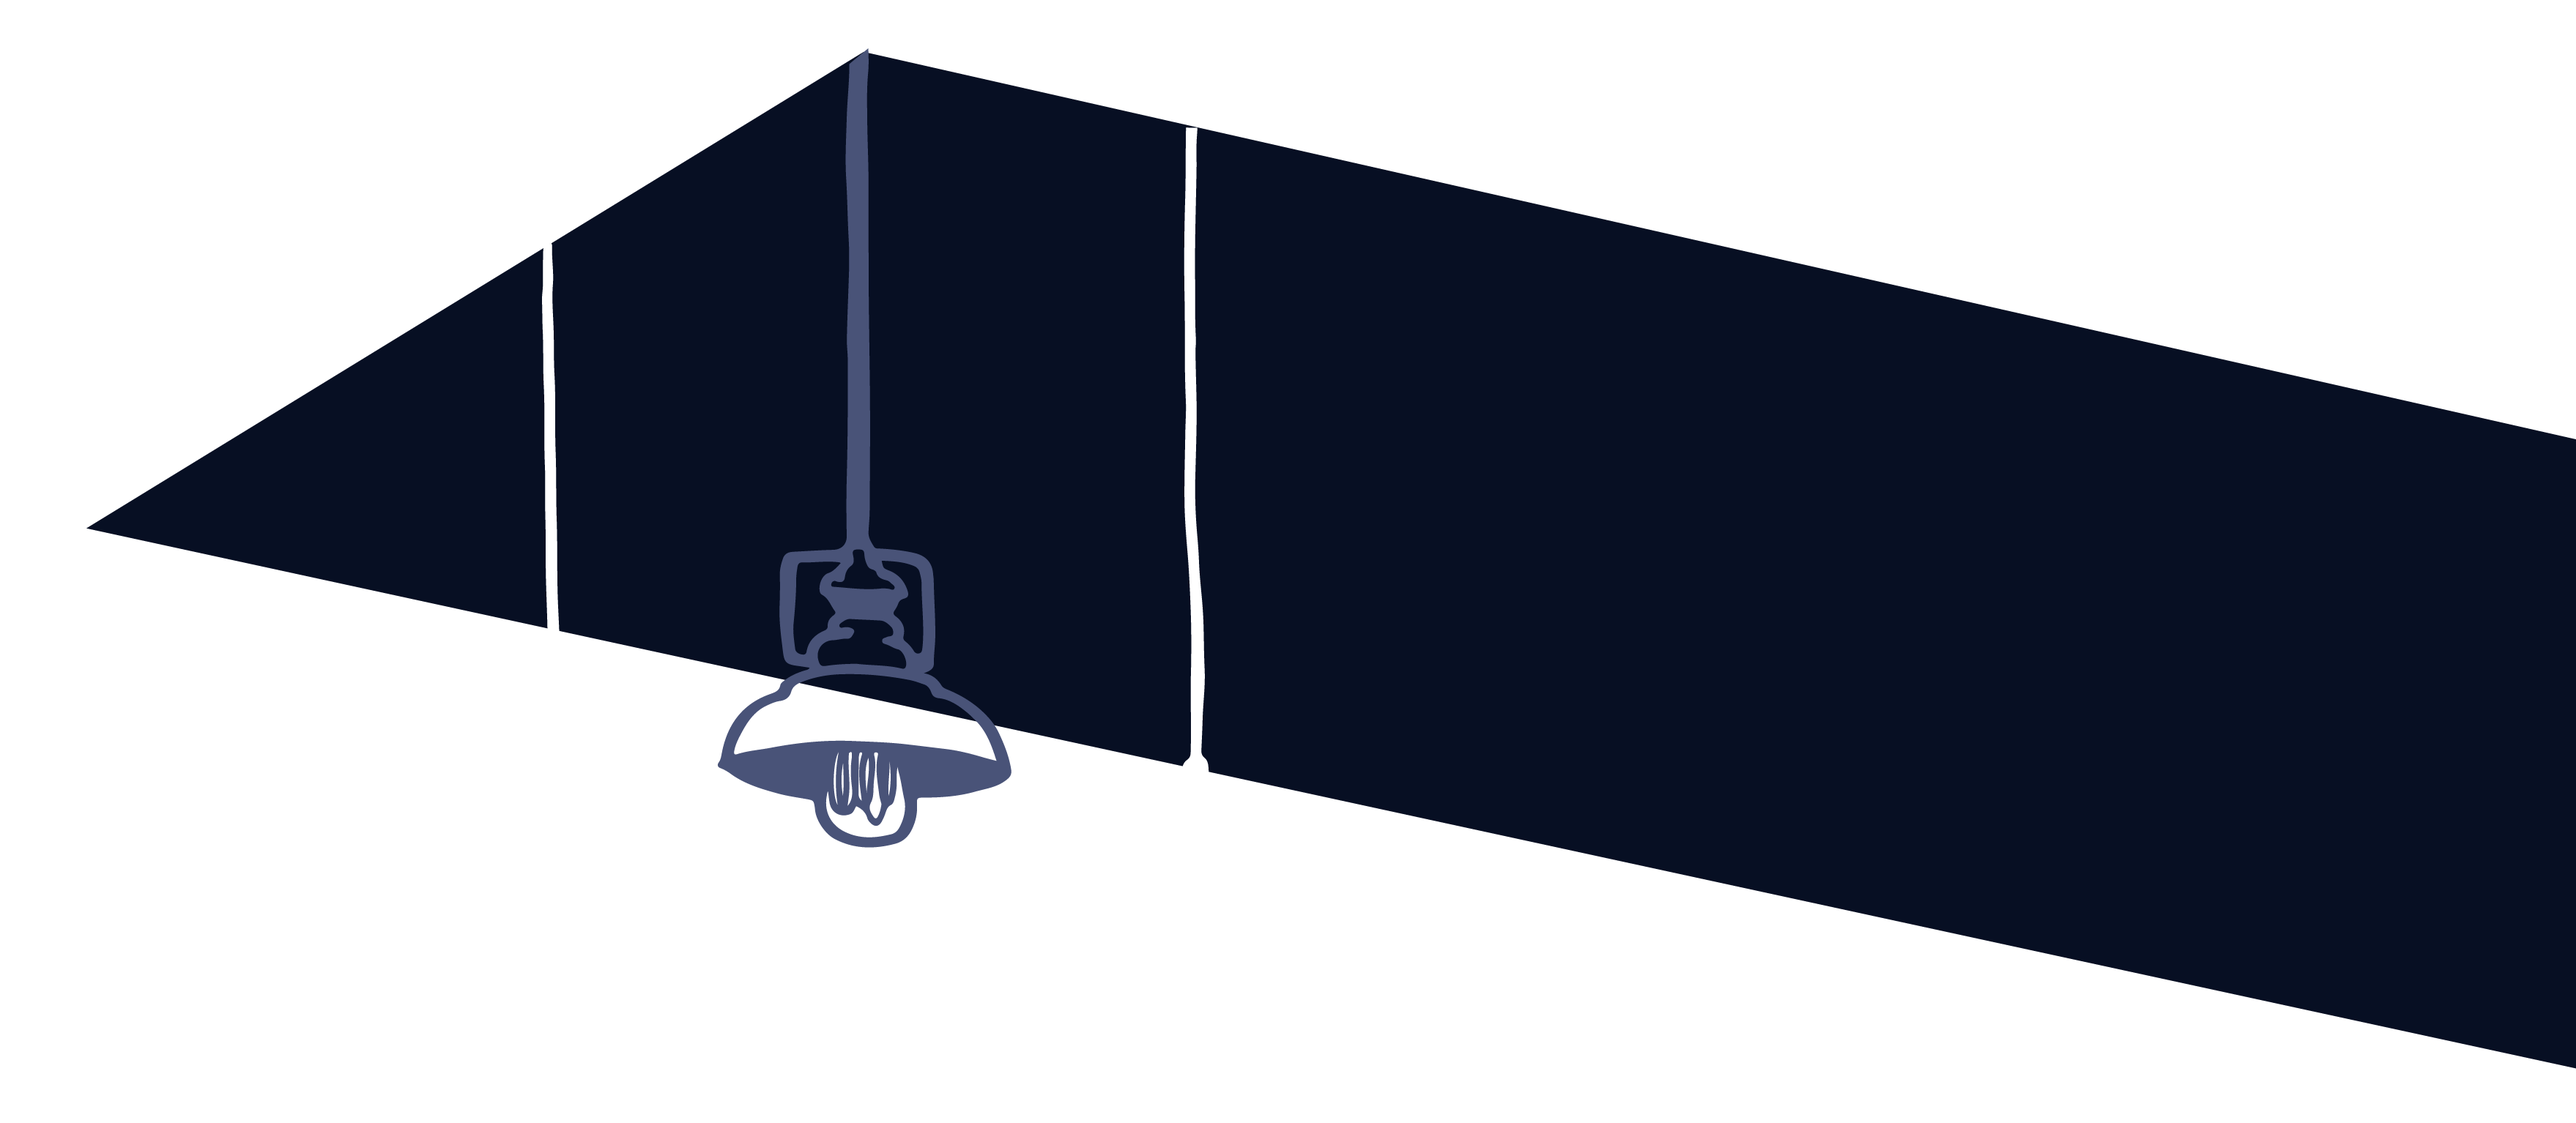
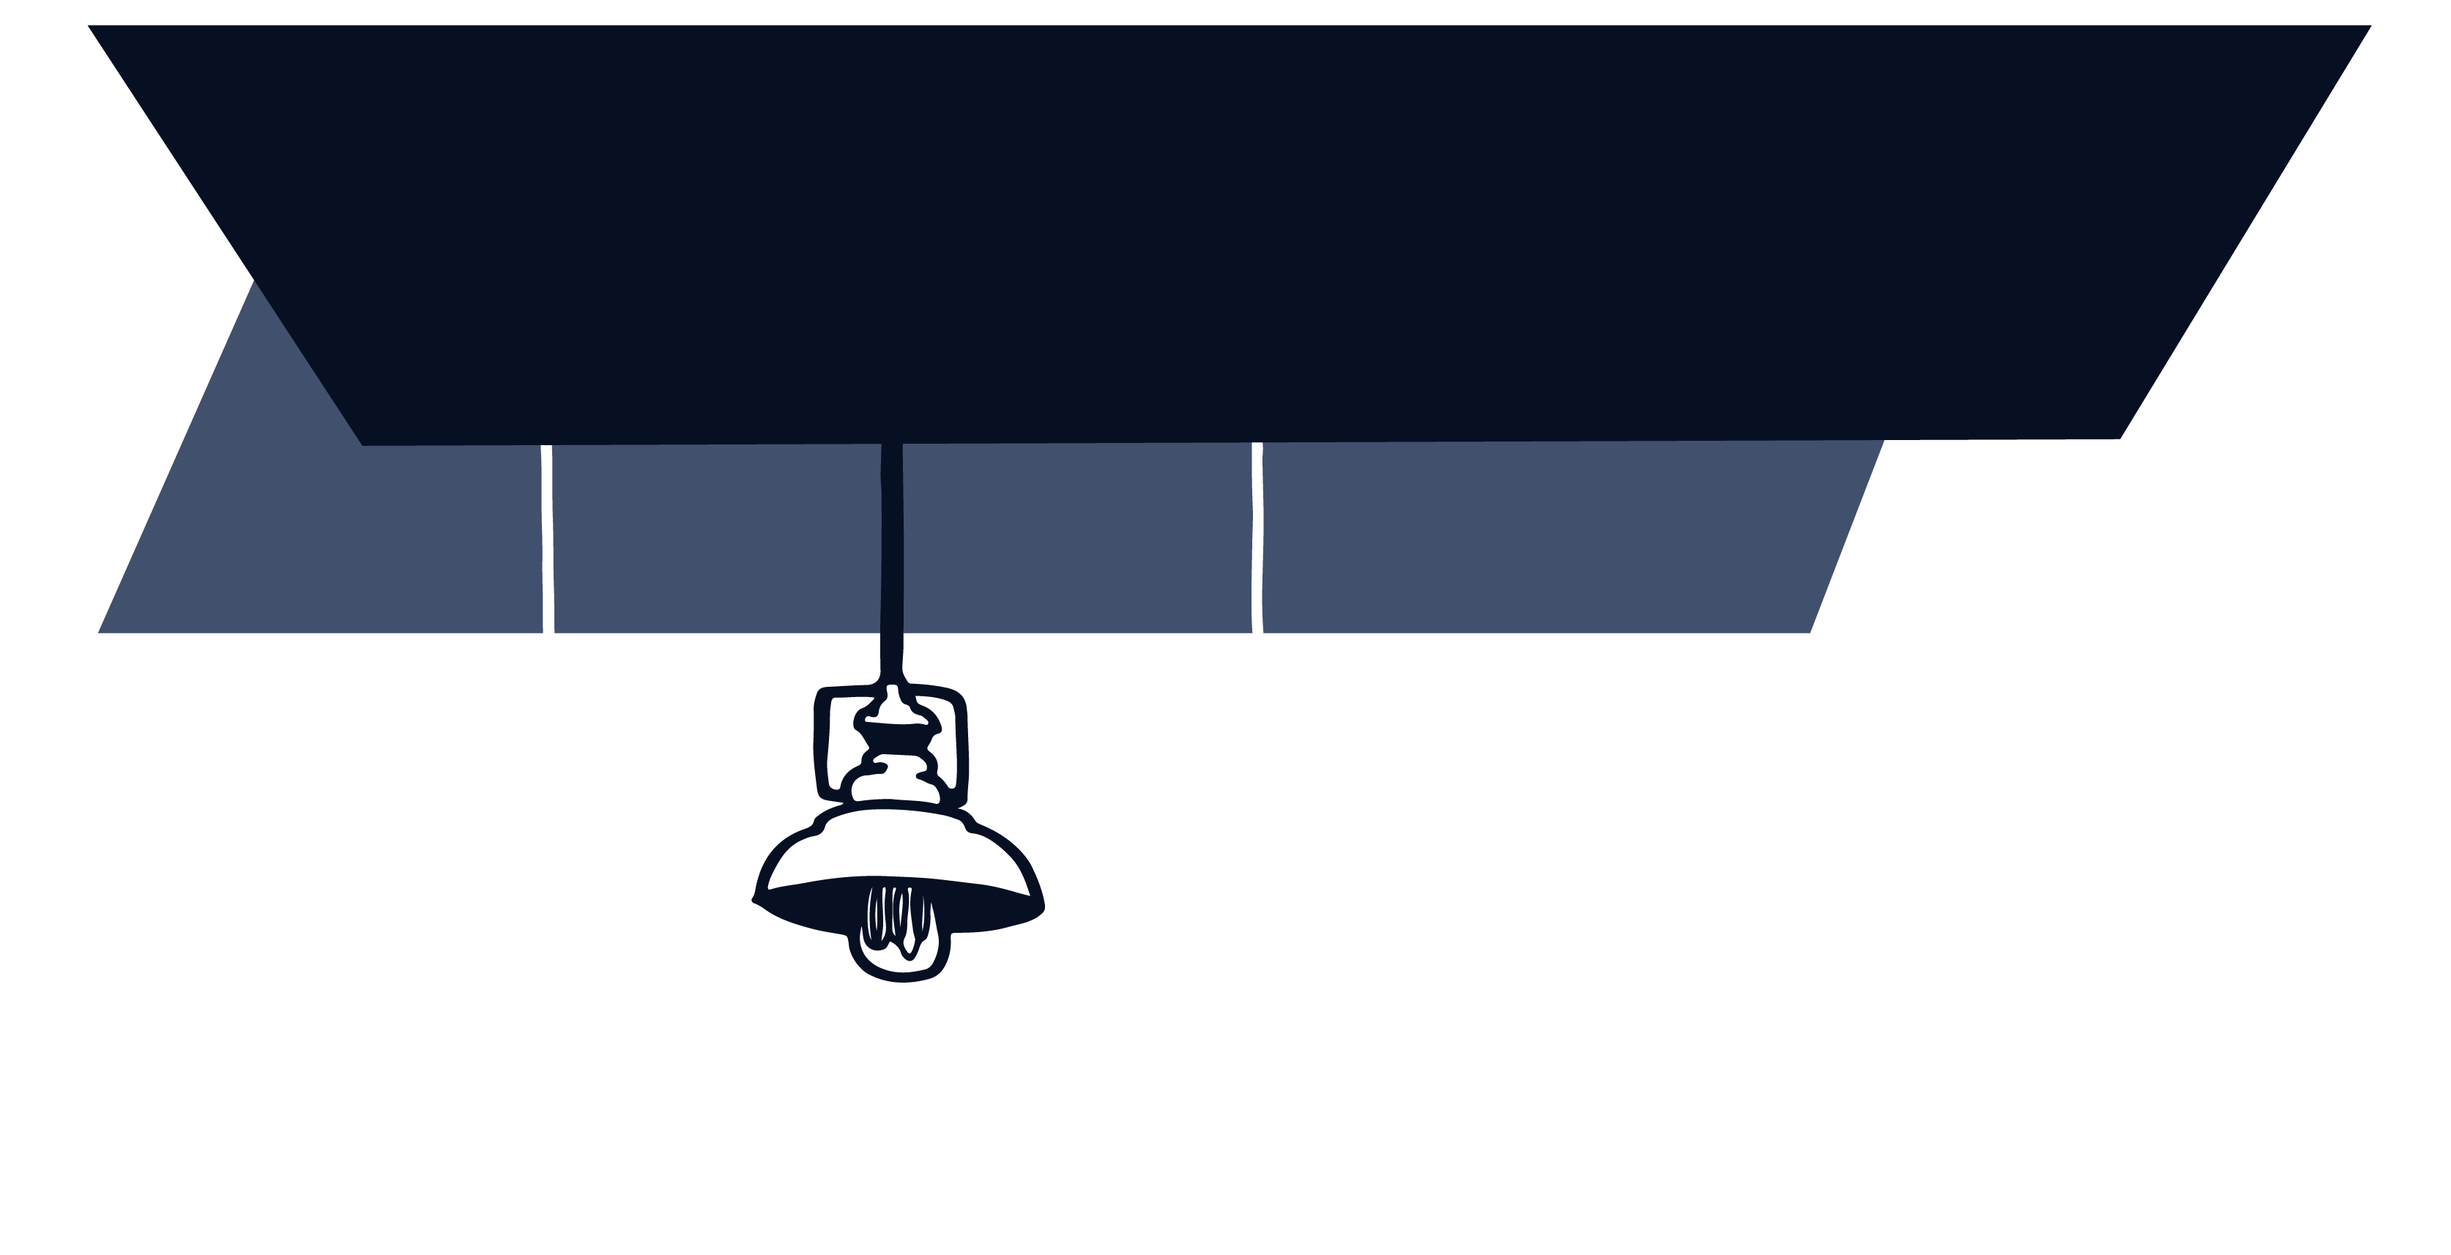
結構修改

diff --git a/shop_list/shop_list.html b/shop_list/shop_list.html
@@ -7,6 +7,7 @@
     <title>NO.007 | 板機鎖</title>
     <link rel="icon" href="./image/title_logo.ico" type="image/x-icon">
     <link rel="stylesheet" href="./css/shop_list.css">
+    <link rel="stylesheet" href="./css/footer.css">
 </head>
 
 <body>
@@ -63,11 +64,30 @@
       </div>
     </div>
     
-    <img class="lamp" src="./image/shop_pro/lamp.png">
+    
 
     <div class="shop_pro_007">
-        <img class="shop_pro_desk" src="./image/shop_pro/desk_full.png">
-        <a>線上商店   |   專業級</a>
+      <a>線上商店   |   專業級</a>
+      <img class="lamp" src="./image/shop_pro/lamp.png">
+      <img class="shop_pro_desk" src="./image/shop_pro/desk_full.png">
+
+      <div class="choose_block">
+        <div class="menu">
+          <ul><a style="font-size: 20px;">專業級</a>
+              <li><a href="#">NO.102 | 護殼銅掛鎖<br>(附自行車QQ鍊)</a></li>
+              <li><a href="#" style="background-color: #96430F; padding: 3px 0px; border-radius: 10px; pointer-events:none;">NO.007 | 長槍鎖</a></li>
+              <li><a href="#">NO.200 | 元寶鎖</a></li>
+              <li><a href="#">NO.007 | 板機鎖</a></li>  
+          </ul>
+          
+          <ul><a style="font-size: 20px;">文創商品</a>
+              <li><a href="#">青森綠意</a></li>
+              <li><a href="#">復古彩瓷</a></li>
+              <li><a href="#">五邀拐</a></li>
+              <li><a href="#">青花瓷</a></li>
+          </ul>
+        </div>
+
         <div class="product_007">
             <img class="NO_007" src="image/shop_pro/4.png">
             <img class="desk" src="image/shop_pro/desk1.png">
@@ -92,38 +112,25 @@
             <p>強化PP塑料鎖體<br>外覆彩色烤漆<br>排片鎖芯<br>鍍鎳銅鑰匙</p>
             <a class="more" href="../shop_pro/shop_pro.html">&lt;    回商品選單  </a>
         </div>
-
-        <div class="menu">
-            <ul><a style="font-size: 20px;">專業級</a>
-                <li><a href="#">NO.102 | 護殼銅掛鎖<br>(附自行車QQ鍊)</a></li>
-                <li><a href="#" style="background-color: #96430F; padding: 3px 0px; border-radius: 10px; pointer-events:none;">NO.007 | 長槍鎖</a></li>
-                <li><a href="#">NO.200 | 元寶鎖</a></li>
-                <li><a href="#">NO.007 | 板機鎖</a></li>  
-            </ul>
-            
-            <ul><a style="font-size: 20px;">文創商品</a>
-                <li><a href="#">青森綠意</a></li>
-                <li><a href="#">復古彩瓷</a></li>
-                <li><a href="#">五邀拐</a></li>
-                <li><a href="#">青花瓷</a></li>
-            </ul>
-        </div>
+      </div>
     </div>
     
+    <div class="fotter_color">
+      <div class="fotter">
+         <img class="fotter_sketch" src="./image/fotter/fotter_sketch.png">
+         <pre class="tel">TEL : 08-7522877</pre>
+         <pre class="time">營業時間 9 : 00 AM - 5 : 00 PM</pre>
+         <div class="add_block">
+           <a href="#"><img class="fb" src="./image/fotter/fb.png"></a>
+           <a href="#"><img class="ig" src="./image/fotter/ig.png"></a>
+           <a href="#"><img class="twitter" src="./image/fotter/twitter.png"></a>
+           <pre class="add">地址 : 屏東市清溪里興中巷16-1號</pre>
+         </div> 
+         <pre class="tibame">本網站為緯育TibaMe前端工程師專業技術養成班第72期學員專題作品，<br>本平台僅供學習、展示之用。
+         若有侵權疑慮，您可以私訊<a href="https://www.facebook.com/TibaMe/">[緯育TibaMe]</a>，後續會由專人協助處理</pre>
+       </div>
+     </div>
 
-
-    <div class="fotter_color"></div>
-    <div class="fotter">
-      <img class="fotter_sketch" src="./image/fotter/fotter_sketch.png">
-      <a href="#"><img class="fb" src="./image/fotter/fb.png"></a>
-      <a href="#"><img class="ig" src="./image/fotter/ig.png"></a>
-      <a href="#"><img class="twitter" src="./image/fotter/twitter.png"></a>
-      <pre class="tel">TEL : 08-7522877</pre>
-      <pre class="time">營業時間 9 : 00 AM - 5 : 00 PM</pre>
-      <pre class="add">地址 : 屏東市清溪里興中巷16-1號</pre>
-      <pre class="tibame">本網站為緯育TibaMe前端工程師專業技術養成班第72期學員專題作品，<br>本平台僅供學習、展示之用。
-        若有侵權疑慮，您可以私訊<a href="https://www.facebook.com/TibaMe/">[緯育TibaMe]</a>，後續會由專人協助處理</pre>
-    </div>
 
     <script type="text/javascript" src="./js/jquery.js"></script>
     <script type="text/javascript" src="./js/jquery_migrate.js"></script>

diff --git a/shop_list/css/shop_list.css b/shop_list/css/shop_list.css
@@ -204,36 +204,34 @@ img.lamp{
   width: 500px;
   position: absolute;
   right: 0;
-  top: 160px;
+  top: 30px;
 }
 div.shop_pro_007 > a{
   color: white;
   font-size: 20px;
   white-space: pre;
   position: absolute;
-  top: 82px;
+  top: 115px;
   left: 50px;
 }
 div.shop_pro_007{
   /* border: 1px solid blue; */
-  height: 950px;
   width: 1200px;
   position: relative;
   margin: 0 auto;
+  margin-bottom: 100px;
 }
 div.shop_pro_007 img.shop_pro_desk{
   width: 280px;
-  position: absolute;
-  left: 0px;
-  top: 70px;
+  padding: 100px 0 100px 0;
+  display: block;
 }
 div.shop_pro_007 div.product_007{
   /* border: 1px solid red; */
   width: 450px;
   height: 560px;
-  position: absolute;
-  left: 300px; 
-  top: 250px;
+  position: relative;
+  margin-left: 100px;
 }
 div.shop_pro_007 div.product_007 img.NO_007{
   width: 370px;
@@ -285,10 +283,13 @@ div.shop_pro_007 div.product_007 > a:hover{
 div.choose{
   /* border: 1px solid white; */
   width: 380px;
-  height: 560px;
-  position: absolute;
-  right: 70px;
-  top: 250px;
+  text-align: right;
+}
+div.choose_block{
+  /* border: 1px solid green; */
+  width: 1200px;
+  margin: 0 auto;
+  display: flex;
 }
 div.choose > p{
   /* border: 1px solid blue; */
@@ -374,10 +375,8 @@ div.choose a.more{
   background-color: #010716;
   width: 130px;
   height: 40px;
-  position: absolute;
-  right: 0;
   border-radius: 10px;
-  padding: 7px 3px 0px 7px;
+  padding: 7px;
 } 
 div.choose a.more:visited{
   color: white;
@@ -389,9 +388,7 @@ div.shop_pro_007 div.menu{
   /* border: 1px solid red; */
   color: white;
   display: inline-block;
-  position: absolute;
-  left: 0px;
-  top: 300px;
+  padding-top: 50px;
 }
 div.shop_pro_007 div.menu > ul {
   padding: 0;
@@ -417,73 +414,4 @@ div.shop_pro_007 div.menu > ul > li > a:visited{
 div.shop_pro_007 div.menu > ul > li > a:hover{
   background-color: #C6A77C;
   border-radius: 10px;
-}
-div.fotter_color{
-  /* border: 1px solid blue; */
-  width: 100%;
-  height: 200px;
-  display: block;
-  position: absolute;
-  background-color: #121B32;
-  bottom: 0px;
-}
-div.fotter{
-  /* border: 1px solid white; */
-  width: 1200px;
-  height: 190px;
-  display: block;
-  position: relative;
-  margin: 0 auto;
-  top: -10px;
-}
-div.fotter img.fotter_sketch{
-  width: 550px;
-  position: absolute;
-  left: 0px;
-  bottom: 10px;
-}
-div.fotter img.fb{
-  width: 25px;
-  position: absolute;
-  right: 300px;
-  bottom: 85px;
-}
-div.fotter img.ig{
-  width: 25px;
-  position: absolute;
-  right: 350px;
-  bottom: 85px;
-}
-div.fotter img.twitter{
-  width: 25px;
-  position: absolute;
-  right: 400px;
-  bottom: 85px;
-}
-div.fotter > pre{
-  color: white;
-  font-size: 14px;
-}
-div.fotter pre.tel{
-  position: absolute;
-  right: 20px;
-  bottom: 130px;
-}
-div.fotter pre.time{
-  position: absolute;
-  right: 20px;
-  bottom: 100px;
-}
-div.fotter pre.add{
-  position: absolute;
-  right: 20px;
-  bottom: 70px;
-}
-div.fotter pre.tibame{
-  color:#54607E;
-  position: absolute;
-  bottom: 10px;
-  right: 20px;
-  white-space: nowrap;
-  text-align: right;
 }

diff --git a/shop_list/css/footer.css b/shop_list/css/footer.css
@@ -1,0 +1,51 @@
+div.fotter_color{
+  /* border: 1px solid blue; */
+  width: 100%;
+  min-width: 1200px;
+  background-color: #121B32;
+  position: relative;
+  top:50px;
+}
+div.fotter{
+  /* border: 1px solid white; */
+  width: 1200px;
+  display: block;
+  margin: 0 auto;
+  color:white;
+}
+div.fotter > pre{
+  text-align: right;
+  color: white;
+  font-size: 14px;
+  display: block;
+}
+div.fotter pre.tel{
+  margin: 0 0 28px 0;
+  padding-top: 40px;
+}
+div.fotter div.add_block{
+  /* border: 1px solid red; */
+  text-align: right;
+}
+div.fotter div.add_block > a > img{
+  width: 25px;
+  margin: 0 10px;
+  vertical-align: middle;
+}
+div.fotter div.add_block img.twitter{
+  margin-right: 80px;
+}
+div.fotter img.fotter_sketch{
+  /* border: 1px solid red; */
+  width: 550px; 
+  position: absolute;
+  top: 140px;
+}
+div.fotter pre.add{
+  display: inline-block;
+}
+div.fotter pre.tibame{
+  color:#54607E;
+  white-space: nowrap;
+  padding-bottom: 20px;
+}

diff --git a/shop_creative/css/shop_creative.css b/shop_creative/css/shop_creative.css
@@ -212,12 +212,12 @@ div.background_color{
 }
 div.background_color_left{
   /* border: 1px solid red; */
-  height: 160px;
+  height: 100px;
   width: 40%;
   background-color: #37415A;
   position: absolute;
   left: 0px;
-  bottom: 950px;
+  bottom: 990px;
   border-radius: 0px 100px 100px 0px;
   transition: 2s;
   z-index: 1;
@@ -234,12 +234,12 @@ div.background_color_bottom{
   transition: 2s;
 }
 div.background_color_left_2{
-  height: 160px;
+  height: 100px;
   width: 250px;
   background-color: #37415A;
   position: absolute;
   left: 0px;
-  bottom: 700px;
+  bottom: 745px;
   border-radius: 0px 100px 100px 0px;
   transition: 2s;
 }
@@ -274,9 +274,8 @@ img.sketch_left{
   position: absolute;
   left: 50%;
   transform: translateX(-480%);
-  top: 980px;
+  top: 930px;
   z-index: 2;
- 
 }
 img.sketch_bottom{
   width: 300px;

diff --git a/shop_pro/css/shop_pro.css b/shop_pro/css/shop_pro.css
@@ -212,12 +212,12 @@ div.background_color{
 }
 div.background_color_left{
   /* border: 1px solid red; */
-  height: 160px;
+  height: 100px;
   width: 40%;
   background-color: #37415A;
   position: absolute;
   left: 0px;
-  bottom: 950px;
+  bottom: 990px;
   border-radius: 0px 100px 100px 0px;
   transition: 2s;
   z-index: 1;
@@ -234,12 +234,12 @@ div.background_color_bottom{
   transition: 2s;
 }
 div.background_color_left_2{
-  height: 160px;
+  height: 100px;
   width: 250px;
   background-color: #37415A;
   position: absolute;
   left: 0px;
-  bottom: 700px;
+  bottom: 745px;
   border-radius: 0px 100px 100px 0px;
   transition: 2s;
 }
